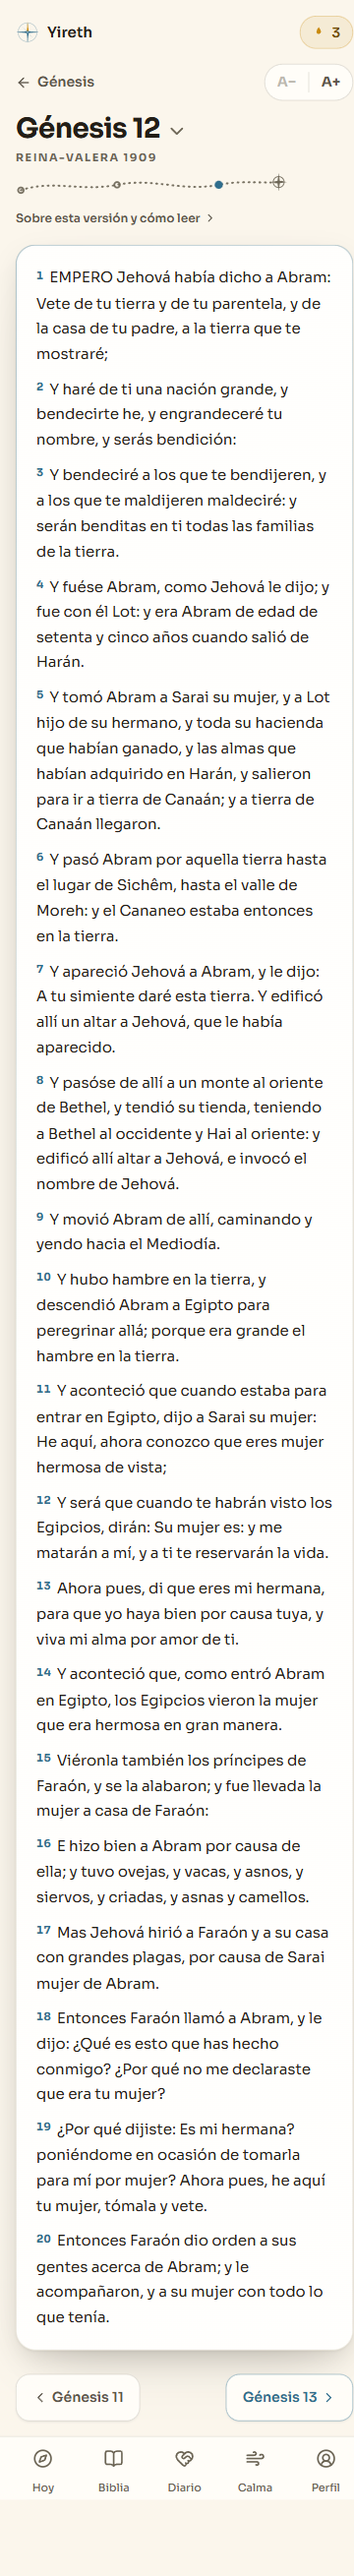
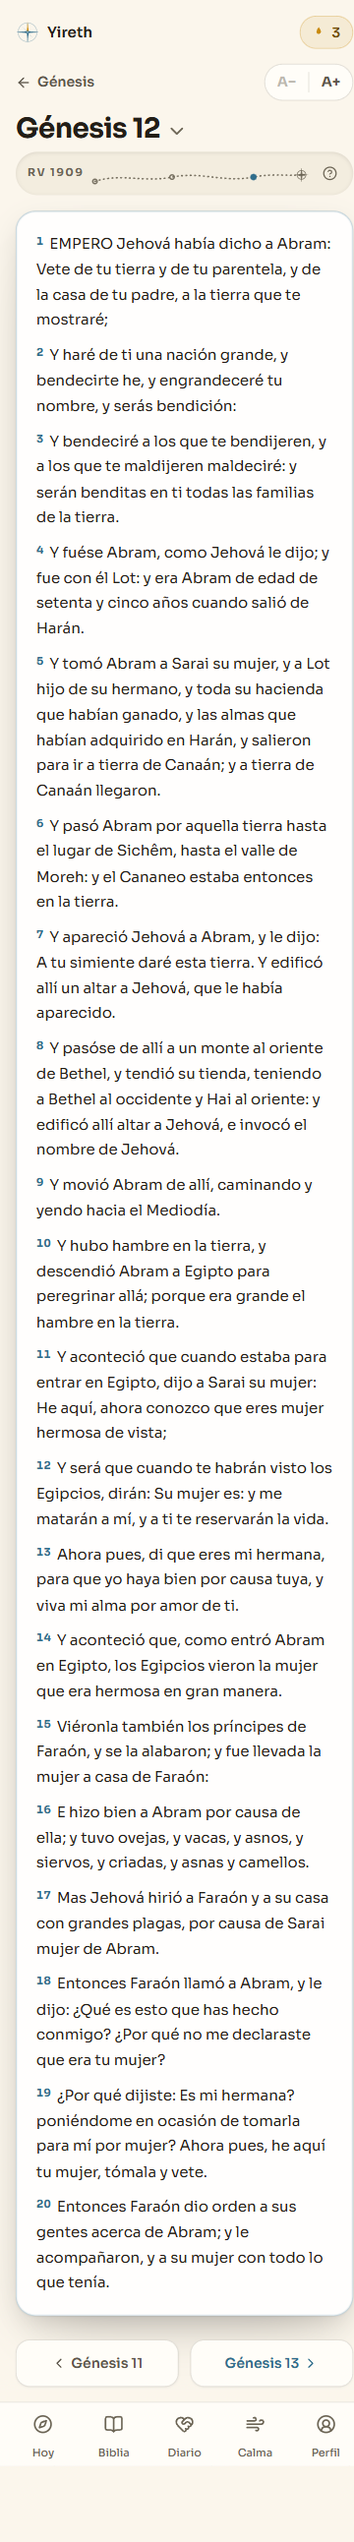
fix(lector): 3er plano + consistencia (revisor R5→R6)
- tira "RV 1909 + sendero + ?" sobre superficie HUNDIDA (surface-2 + inset)
  → 3er plano visible: base texturada / tira hundida / card elevada
- card: hairline sólido del acento 30% en los 4 lados (el borde degradé no
  se leía) + inset accent
- trama de mapa 0.09→0.15 con máscara (solo asoma en el margen superior)
- encabezado a 3 grupos: <details> reemplazado por icono "?" en la tira;
  versión + sendero fusionados en una fila
- nav de capítulos: grid 2 col iguales, mismo borde/sombra; acento solo en
  el texto de "siguiente"

diff --git a/app/app/biblia/[slug]/[capitulo]/page.tsx b/app/app/biblia/[slug]/[capitulo]/page.tsx
@@ -11,7 +11,7 @@ import { use, useCallback, useEffect, useRef, useState } from 'react';
 import Link from 'next/link';
 import { notFound, useRouter } from 'next/navigation';
 import { AnimatePresence, motion, useReducedMotion } from 'motion/react';
-import { ArrowLeft, ChevronLeft, ChevronRight, ChevronDown, Loader2, RotateCw, WifiOff, X } from 'lucide-react';
+import { ArrowLeft, ChevronLeft, ChevronRight, ChevronDown, HelpCircle, Loader2, RotateCw, WifiOff, X } from 'lucide-react';
 import { AppShell, TopBar } from '@/components/app/ui';
 import { getLibro } from '@/lib/biblia';
 import { RACHA_ACTUAL } from '@/lib/contenido';
@@ -75,6 +75,7 @@ export default function CapituloPage({
   const [yendo, setYendo] = useState(false);
   const [tips, setTips] = useState(false);
   const [picker, setPicker] = useState(false);
+  const [ayuda, setAyuda] = useState(false);
   const restauro = useRef(false);
 
   const valido = !!libro && Number.isInteger(cap) && cap >= 1 && cap <= (libro?.capitulos ?? 0);
@@ -226,8 +227,13 @@ export default function CapituloPage({
       />
       <div
         aria-hidden="true"
-        className="pointer-events-none absolute inset-0 -z-10 opacity-[0.09]"
-        style={{ backgroundImage: TRAMA_MAPA, backgroundSize: '160px 160px' }}
+        className="pointer-events-none absolute inset-0 -z-10 opacity-[0.15]"
+        style={{
+          backgroundImage: TRAMA_MAPA,
+          backgroundSize: '160px 160px',
+          WebkitMaskImage: 'linear-gradient(to bottom, black, black 16%, transparent 44%)',
+          maskImage: 'linear-gradient(to bottom, black, black 16%, transparent 44%)',
+        }}
       />
 
       {/* fila 1 · volver + tamaño */}
@@ -278,10 +284,34 @@ export default function CapituloPage({
           />
         </button>
 
-        <p className="mt-1 text-[11px] font-bold uppercase tracking-[0.14em] text-[var(--text-tertiary)]">
-          Reina-Valera 1909
-        </p>
-        <SenderoOrnamento />
+        {/* plano HUNDIDO: tira de versión + sendero + ayuda */}
+        <div className="mt-1.5 flex items-center gap-2 rounded-full bg-[var(--surface-2)] px-3 py-1.5 shadow-[inset_0_1px_4px_color-mix(in_oklab,var(--text-primary)_11%,transparent)]">
+          <p className="shrink-0 text-[11px] font-bold uppercase tracking-[0.14em] text-[var(--text-tertiary)]">RV 1909</p>
+          <span className="min-w-0 flex-1">
+            <SenderoOrnamento />
+          </span>
+          <button
+            type="button"
+            onClick={() => {
+              setAyuda((v) => !v);
+              marcarTipsVistos();
+            }}
+            aria-expanded={ayuda}
+            aria-label="Sobre esta versión y cómo leer"
+            className="grid size-6 shrink-0 place-items-center rounded-full text-[var(--text-tertiary)] [touch-action:manipulation] hover:text-[var(--text-secondary)]"
+          >
+            <HelpCircle size={15} aria-hidden="true" />
+          </button>
+        </div>
+        {ayuda && (
+          <p className="mt-2 text-xs leading-relaxed text-[var(--text-tertiary)]">
+            La Reina-Valera 1909 es una traducción clásica de uso libre; conserva palabras antiguas
+            como «empero» o «he aquí», con el mismo sentido que una Biblia de hoy. Ajusta el tamaño de
+            la letra con <span className="font-semibold text-[var(--text-secondary)]">A− / A+</span>;
+            en computador cambias de capítulo con las flechas{' '}
+            <span className="font-semibold text-[var(--text-secondary)]">← →</span>.
+          </p>
+        )}
 
         <AnimatePresence initial={false}>
           {picker && (
@@ -330,20 +360,6 @@ export default function CapituloPage({
             </motion.div>
           )}
         </AnimatePresence>
-
-        <details className="group mt-2" onToggle={marcarTipsVistos}>
-          <summary className="inline-flex cursor-pointer list-none items-center gap-1 text-xs font-semibold text-[var(--text-secondary)] [touch-action:manipulation]">
-            Sobre esta versión y cómo leer
-            <ChevronRight size={13} aria-hidden="true" className="transition-transform group-open:rotate-90" />
-          </summary>
-          <p className="mt-1.5 text-xs leading-relaxed text-[var(--text-tertiary)]">
-            La Reina-Valera 1909 es una traducción clásica de uso libre; conserva palabras antiguas
-            como «empero» o «he aquí», con el mismo sentido que una Biblia de hoy. Ajusta el tamaño de
-            la letra con <span className="font-semibold text-[var(--text-secondary)]">A− / A+</span>;
-            en computador cambias de capítulo con las flechas{' '}
-            <span className="font-semibold text-[var(--text-secondary)]">← →</span>.
-          </p>
-        </details>
       </header>
 
       <div className="mt-4 flex flex-1 flex-col px-4 pb-4">
@@ -352,12 +368,11 @@ export default function CapituloPage({
           initial={reduce ? false : { opacity: 0, y: 8 }}
           animate={{ opacity: 1, y: 0 }}
           transition={{ duration: reduce ? 0 : 0.32, ease: EASE }}
-          className="rounded-[var(--radius-card)] border border-transparent p-5"
+          className="rounded-[var(--radius-card)] border border-[color-mix(in_oklab,var(--accent)_30%,transparent)] p-5"
           style={{
-            background:
-              'linear-gradient(color-mix(in oklab, white 65%, var(--surface)), color-mix(in oklab, white 65%, var(--surface))) padding-box, linear-gradient(155deg, color-mix(in oklab, var(--accent) 48%, transparent), color-mix(in oklab, var(--accent) 8%, transparent) 50%, color-mix(in oklab, var(--text-tertiary) 14%, transparent)) border-box',
+            background: 'color-mix(in oklab, white 70%, var(--surface))',
             boxShadow:
-              '0 1px 2px color-mix(in oklab, var(--text-primary) 6%, transparent), 0 10px 28px -6px color-mix(in oklab, var(--text-primary) 18%, transparent), 0 30px 60px -30px color-mix(in oklab, var(--text-primary) 22%, transparent)',
+              '0 1px 2px color-mix(in oklab, var(--text-primary) 7%, transparent), 0 12px 30px -6px color-mix(in oklab, var(--text-primary) 20%, transparent), 0 34px 64px -34px color-mix(in oklab, var(--text-primary) 24%, transparent), inset 0 0 0 1px color-mix(in oklab, var(--accent) 8%, transparent)',
           }}
         >
           {estado === 'cargando' && (
@@ -419,13 +434,13 @@ export default function CapituloPage({
           )}
         </motion.div>
 
-        <nav aria-label="Capítulos" className="mt-6 flex items-stretch justify-between gap-3">
+        <nav aria-label="Capítulos" className="mt-6 grid grid-cols-2 gap-3">
           {prev ? (
             <MotionLink
               href={`/app/biblia/${slug}/${prev}`}
               onClick={irACapitulo}
               whileTap={reduce ? undefined : { scale: 0.97 }}
-              className="inline-flex min-h-[48px] items-center gap-1 rounded-[var(--radius-button)] border border-[color-mix(in_oklab,var(--text-tertiary)_20%,transparent)] bg-[var(--surface)] px-4 text-sm font-semibold text-[var(--text-secondary)] shadow-[var(--shadow-1)] [touch-action:manipulation]"
+              className="flex min-h-[48px] items-center justify-center gap-1 rounded-[var(--radius-button)] border border-[color-mix(in_oklab,var(--text-tertiary)_20%,transparent)] bg-[var(--surface)] px-3 text-sm font-semibold text-[var(--text-secondary)] shadow-[var(--shadow-1)] [touch-action:manipulation]"
             >
               <ChevronLeft size={16} aria-hidden="true" />
               {libro.nombre} {prev}
@@ -438,7 +453,7 @@ export default function CapituloPage({
               href={`/app/biblia/${slug}/${next}`}
               onClick={irACapitulo}
               whileTap={reduce ? undefined : { scale: 0.97 }}
-              className="inline-flex min-h-[48px] items-center gap-1 rounded-[var(--radius-button)] border border-[color-mix(in_oklab,var(--accent)_45%,transparent)] bg-[var(--surface)] px-4 text-sm font-semibold text-[var(--accent)] shadow-[var(--shadow-1)] [touch-action:manipulation]"
+              className="col-start-2 flex min-h-[48px] items-center justify-center gap-1 rounded-[var(--radius-button)] border border-[color-mix(in_oklab,var(--text-tertiary)_20%,transparent)] bg-[var(--surface)] px-3 text-sm font-semibold text-[var(--accent)] shadow-[var(--shadow-1)] [touch-action:manipulation]"
             >
               {libro.nombre} {next}
               <ChevronRight size={16} aria-hidden="true" />

diff --git a/docs/revisiones/lector-veredicto.md b/docs/revisiones/lector-veredicto.md
@@ -1,17 +1,16 @@
 # VEREDICTO revisor-visual — lector de capítulo bíblico
-Fecha: 2026-09-10 14:00
+
+Fecha: 2026-09-10 14:20
 Screenshot: docs/revisiones/lector-375.png
 Usabilidad: 36/40
-Craft: 14/20
+Craft: 15/20
 Copy (si vende): N-A
 Fidelidad (si hubo referencia): N-A
 Veredicto: NO LISTA
 
 Top defectos:
-1. [fondo / margenes del lienzo] El 3er plano (radial de acento 9% + trama TRAMA_MAPA ~4% marron sobre crema) queda bajo el umbral perceptivo a 375px: el fondo se ve como un fill plano -> subir la trama a 7-9% con trazo mas oscuro y escala mayor, y el radial a 14-16% con radio mas amplio que llegue detras del header. El fix existe en codigo pero no entrega nada en pantalla.
-2. [card del lector] La superficie elevada casi se funde con la base (#FFFDF8 sobre #FBF6EC, ~2 pts de luminancia): solo se leen 2 planos, no 3 -> bajar la base o aclarar la card y reforzar el spread ambiental de shadow-card para que la elevacion sea inequivoca a 375px.
-3. [transicion entre capitulos] El cambio de capitulo -interaccion central del lector- es solo el texto "Abriendo capitulo..." -> agregar View Transition / crossfade suave del cuerpo (mitad del eje movimiento, la mejora mas barata).
-4. [ornamento sendero] Sigue leyendose fino y palido a 375px pese al 75%/1.8: el dispositivo ownable no pesa -> engrosar estaciones o subir a 85%.
-5. [borde degrade de la card] El degrade del borde es casi invisible en pantalla -> subir el tope del acento (32% -> ~45%) en la esquina de arranque.
-
-Nota: usabilidad ya pasa (36/40). El unico bloqueo es craft 14/20 (faltan 2), concentrado en EJE 2 profundidad (defectos 1 y 2). Con esos dos resueltos y visibles en el screenshot, profundidad sube de 2 a 3-4 y el gate de craft (>=16) se alcanza.
+1. Card de lectura — el borde degradé sigue sin leerse a 375px: 48% de acento SOLO en una esquina, el resto <14% sobre borde transparente. El dispositivo "borde con degradé del acento" de la FICHA-ARTE queda invisible. Fix: hairline sólido del acento al 28-35% en los 4 lados + refuerzo degradé 60-70% en la esquina de arranque.
+2. Profundidad — solo hay 2 planos reales (base con tinte + card elevada). El 3er nivel "hundido #F3EDDF" que define la ficha no aparece en la vista. Fix: asentar la rejilla del picker y/o el bloque "Sobre esta versión" sobre superficie hundida para cerrar base/elevado/hundido.
+3. Trama de mapa a opacidad 0.09 no se lee como cartografía a 375px, funciona como ruido plano. Fix: subir a 0.13-0.16 y enmascararla con gradiente para que solo aparezca en los márgenes, fuera de la card.
+4. Cabecera saturada — topbar, "volver", A−/A+, título, "Reina-Valera 1909", sendero y "Sobre esta versión" = 7 elementos antes del versículo 1. Fix: fusionar versión + sendero en una fila y colapsar "Sobre esta versión" a un ícono.
+5. Nav inferior — botones de ancho desigual y tratamiento asimétrico (solo el derecho con borde de acento, el izquierdo casi no eleva). Fix: igualar altura/borde/sombra de ambos y reservar el acento al texto del "siguiente".
